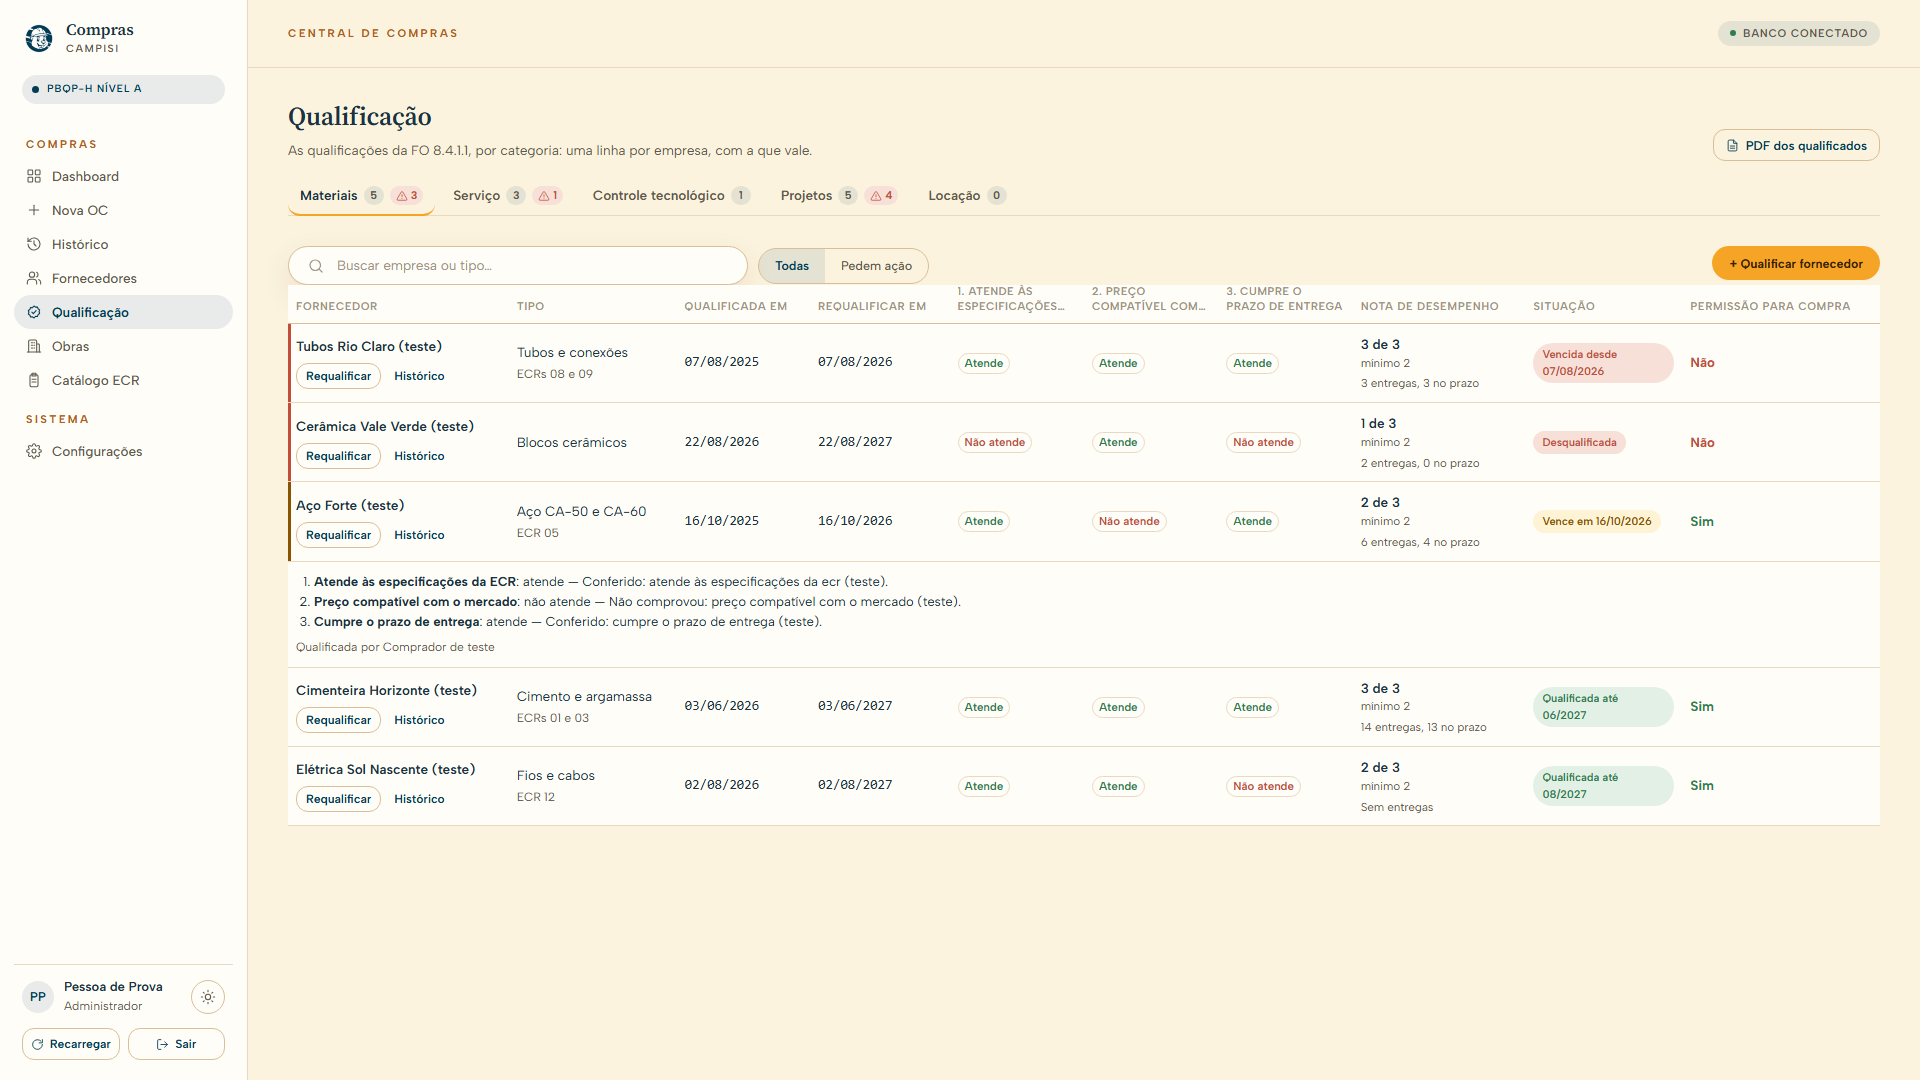
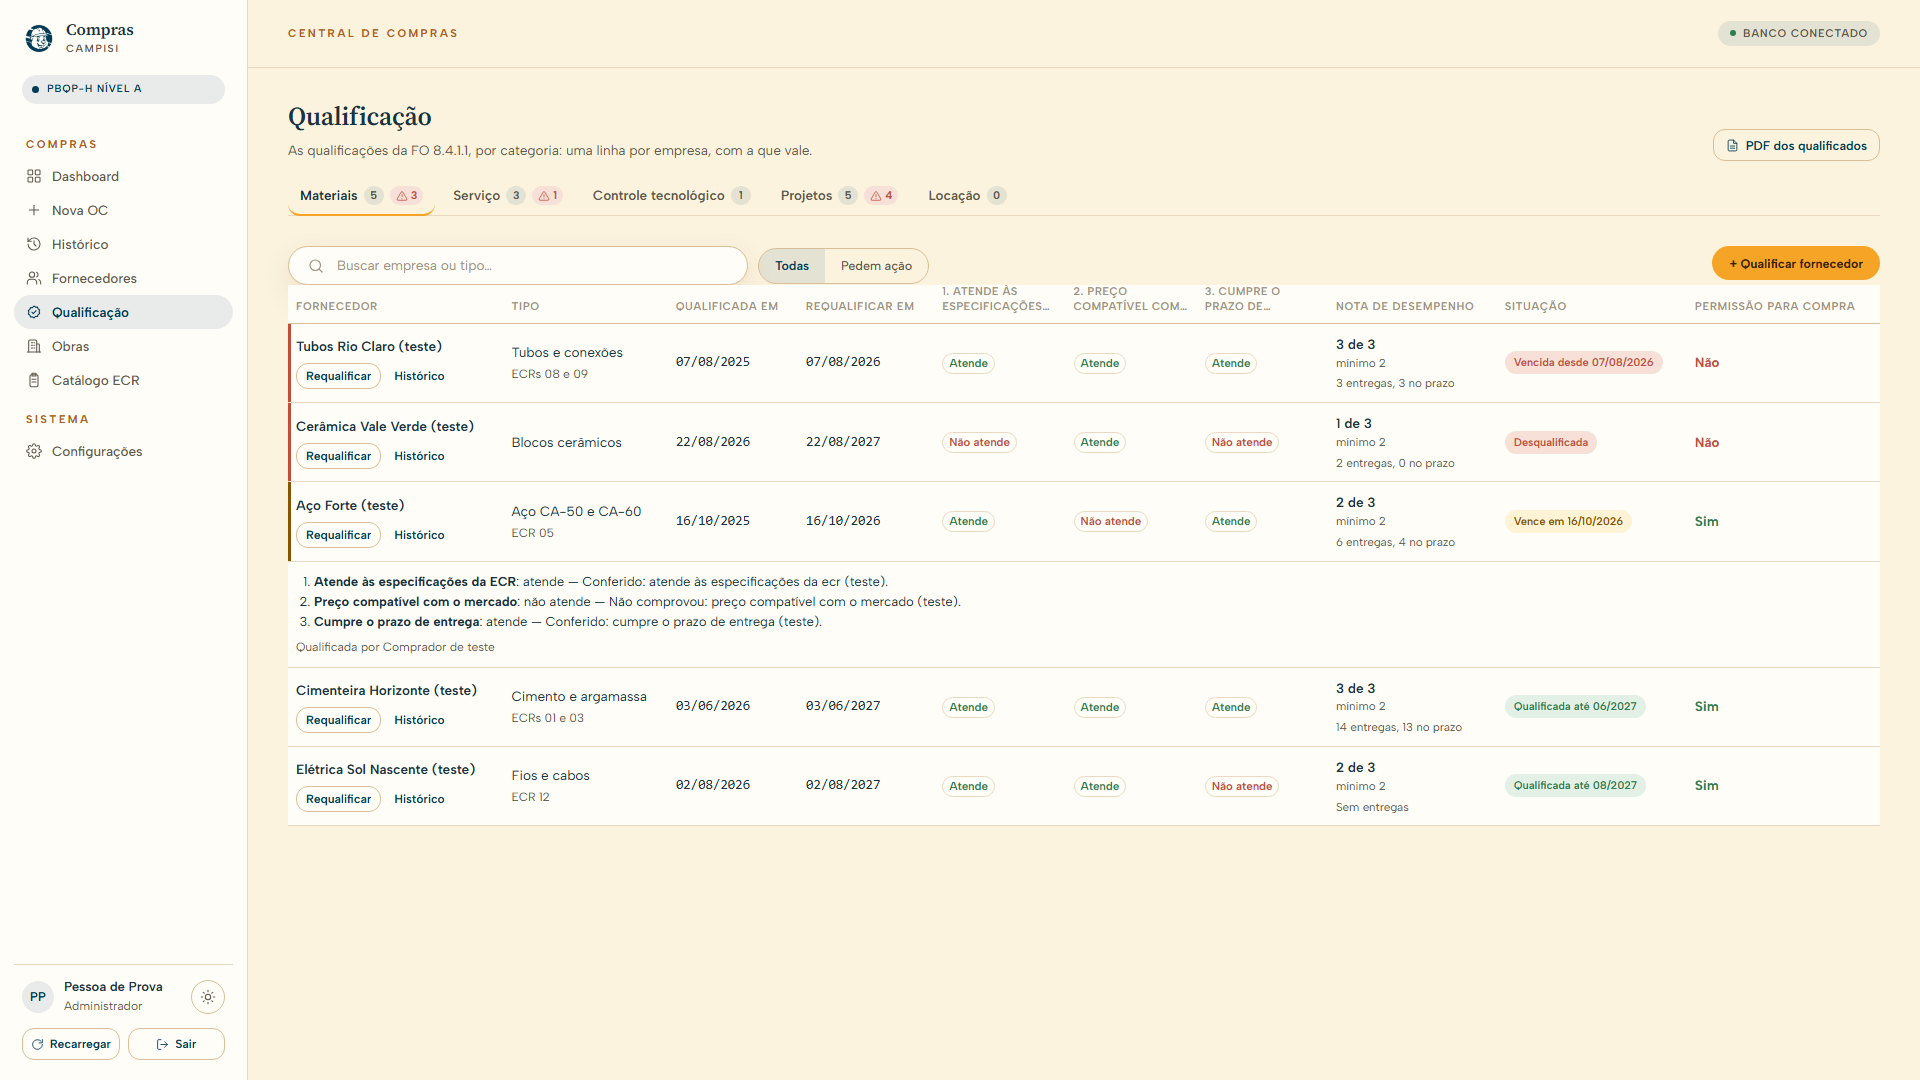
o retoque da D662: em tela larga (1600px ou mais) o selo da Situacao fica numa linha so; abaixo disso nada muda (as 22 fotos de 1366 e 375 sairam iguais byte a byte); as fotos de 1920 trocadas, e a 01 e a 04 em 1920 escuro

diff --git a/src/features/qualificacao/QualificacaoPage.module.css b/src/features/qualificacao/QualificacaoPage.module.css
@@ -168,6 +168,11 @@
 /* O selo de sempre; aqui ele pode quebrar em duas linhas, para a coluna não empurrar a tabela. */
 .situacao { min-width: 118px; max-width: 140px; }
 .situacao > span { white-space: normal; }
+/* Em tela larga sobra espaço: o selo volta a uma linha só (CTO-D662). Abaixo disso, nada muda. */
+@media (min-width: 1600px) {
+  .situacao { max-width: none; }
+  .situacao > span { white-space: nowrap; }
+}
 .acoesDaLinha {
   display: flex;
   flex-wrap: wrap;
